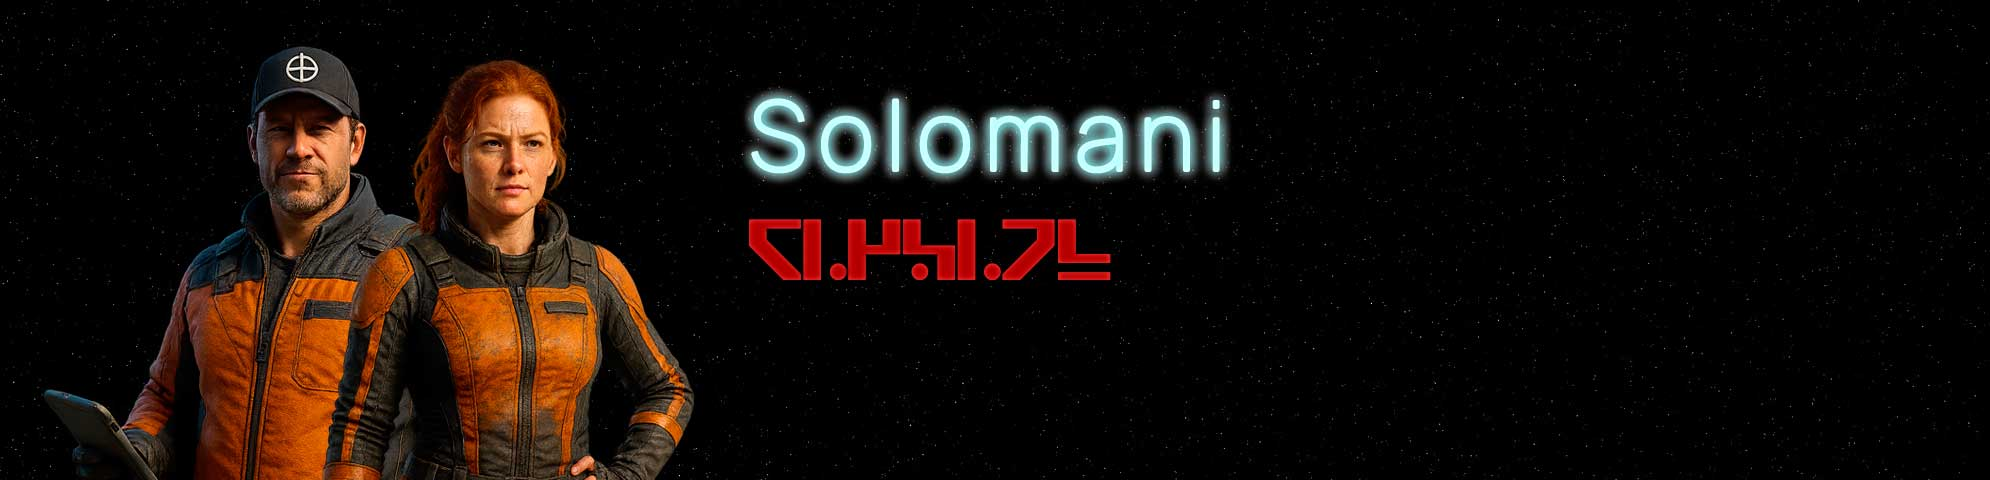
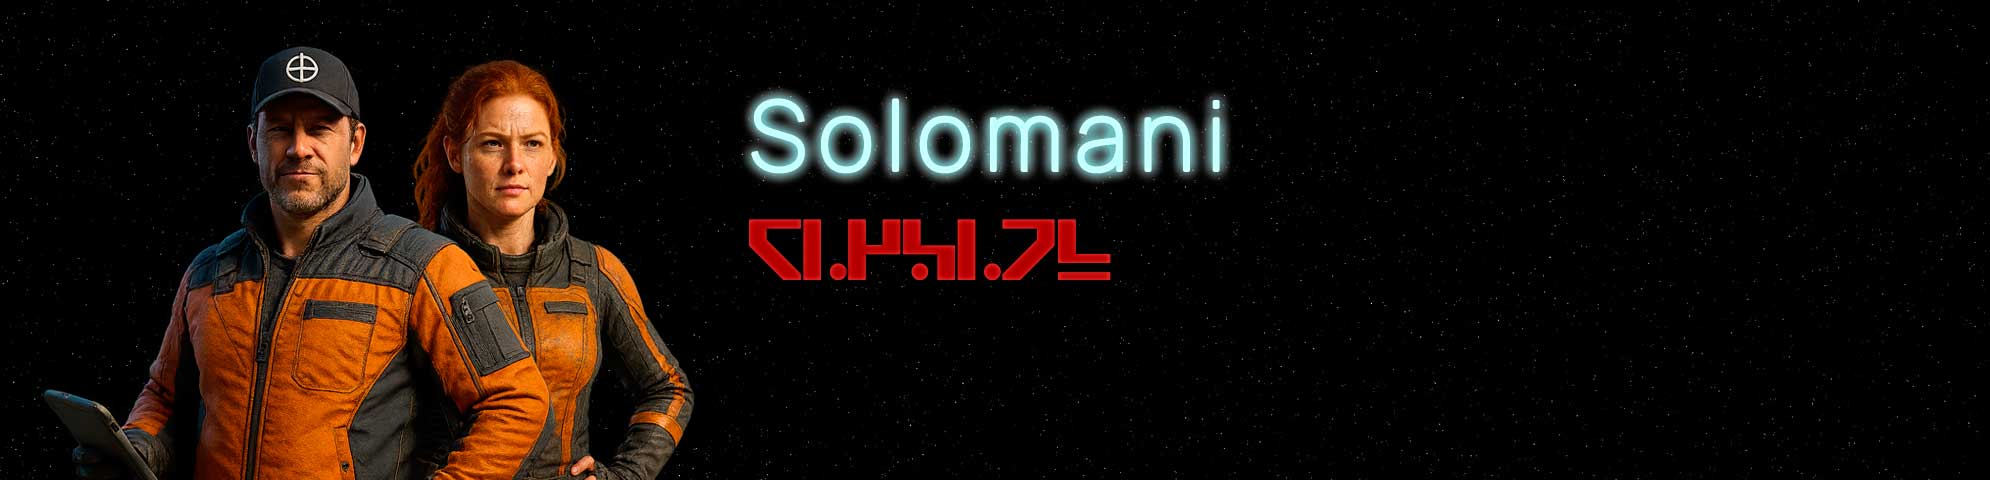
GITBOOK-113: No subject

Changed region(s): [[0.1558, 0.4688, 0.2804, 1.0]]

diff --git a/whitepaper-es/foundations/interstellar-community/sophonts/README.md b/whitepaper-es/foundations/interstellar-community/sophonts/README.md
@@ -2,7 +2,7 @@
 description: >-
   Civilizaciones y especies que participan en el panorama político-económico
   interestelar.
-cover: ../../../.gitbook/assets/tcw-wip-banner.jpg
+cover: ../../../.gitbook/assets/tcw-sophonts.jpg
 coverY: 0
 layout:
   width: default

diff --git a/whitepaper-es/foundations/interstellar-community/sophonts/humaniti/solomani.md b/whitepaper-es/foundations/interstellar-community/sophonts/humaniti/solomani.md
@@ -1,5 +1,5 @@
 ---
-cover: ../../../../.gitbook/assets/tcw-sph-solomani-alt.jpg
+cover: ../../../../.gitbook/assets/tcw-sph-solomani.jpg
 coverY: 0
 layout:
   width: default
